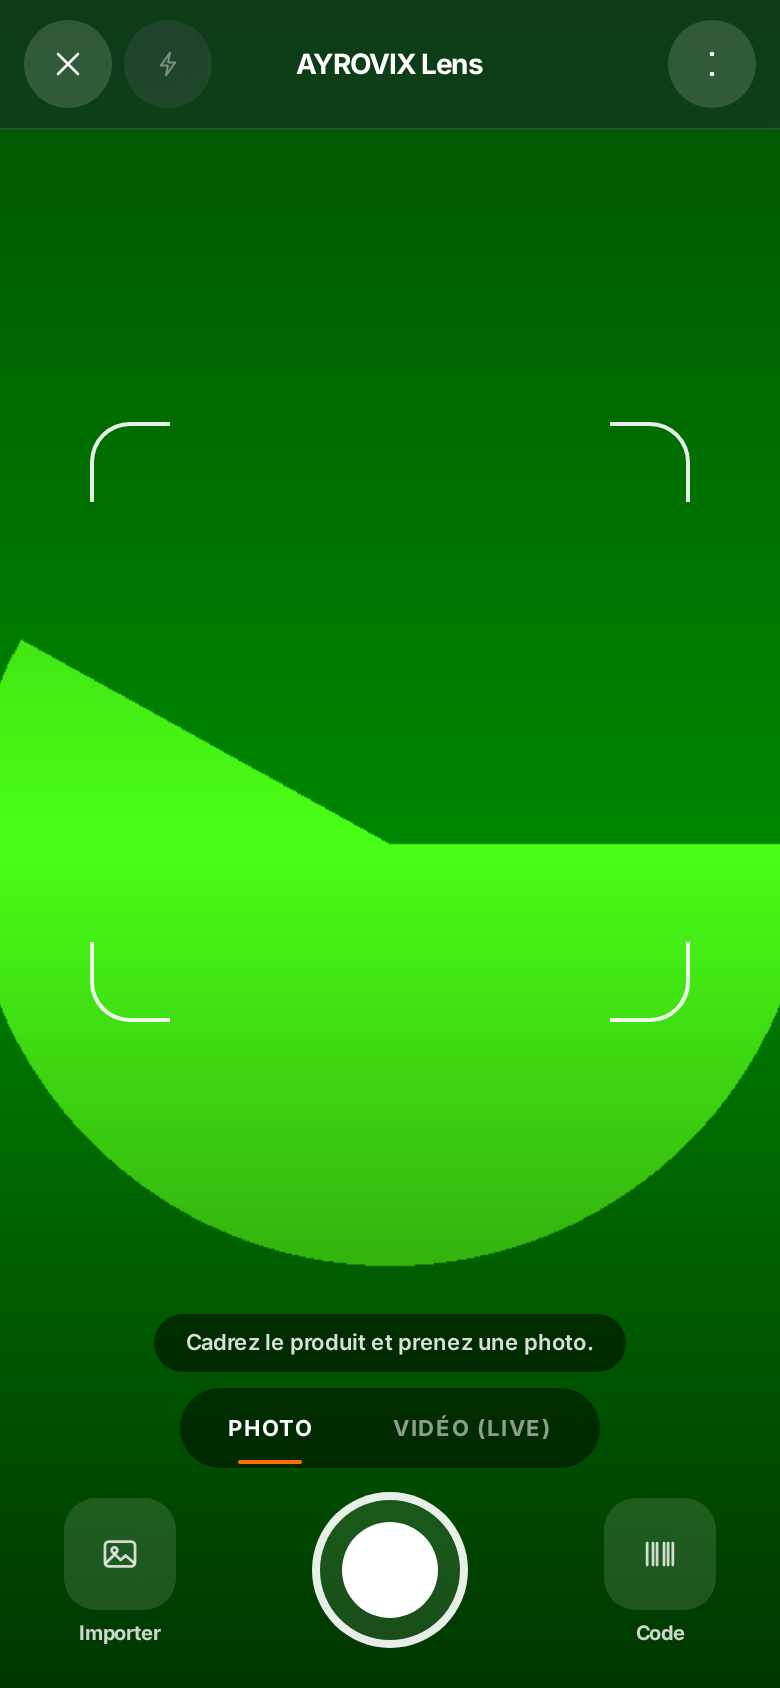
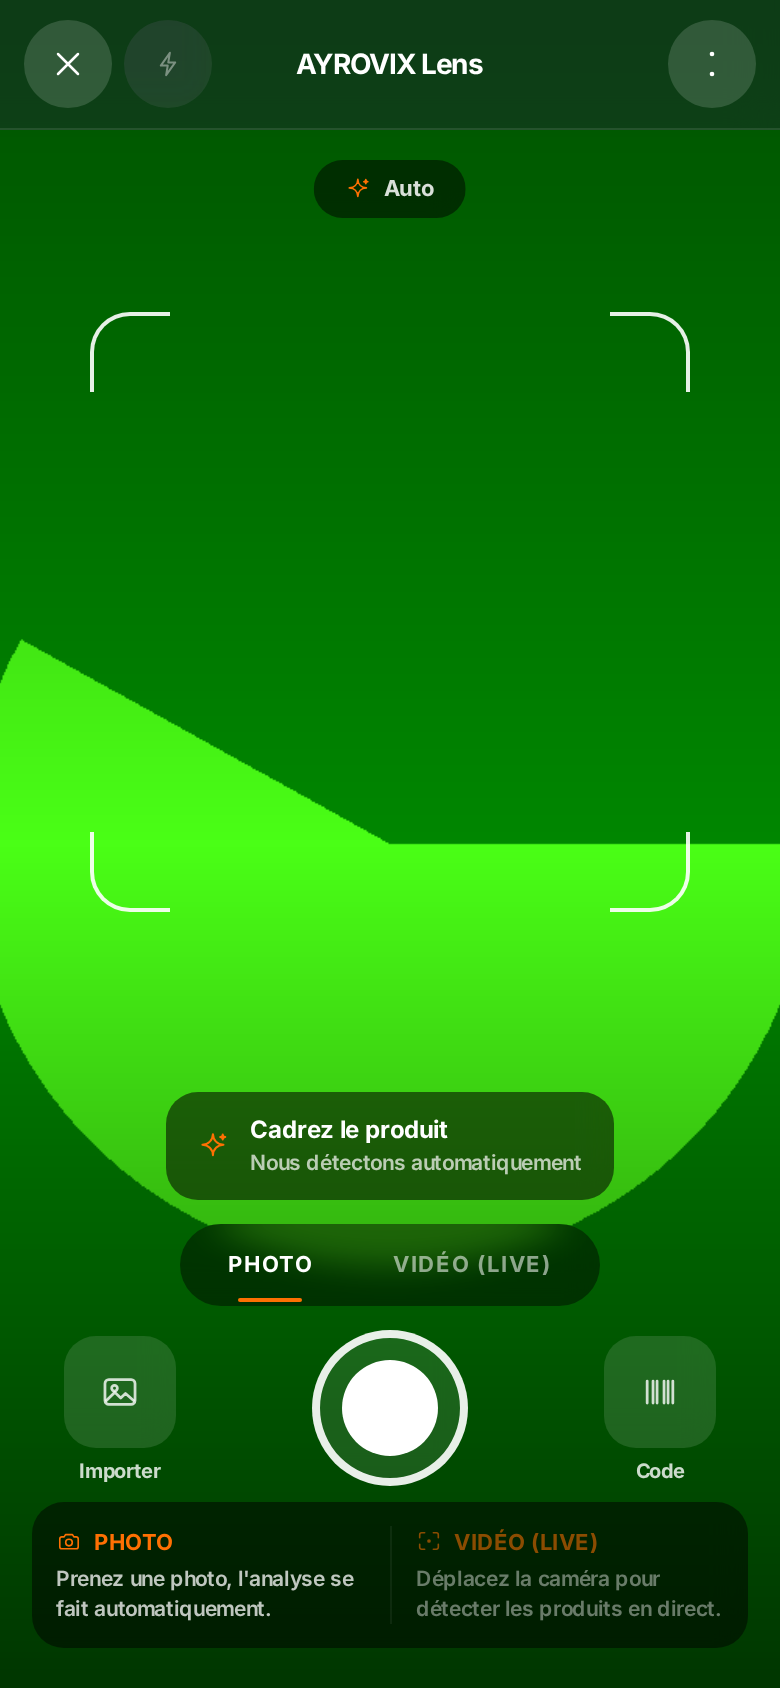
Lens camera UX polish to match visual references (identity preserved)
- Status pill: 'Auto' (PHOTO) / '● Live' (VIDEO).
- Two-line contextual hint card with icon (auto-hides): photo vs video.
- Product card anchored to the stable bounding box (thumb + label + % + DT), tap opens
  the existing results page.
- Capture button shows a scan icon with orange ring in VIDEO mode.
- Bottom two-column explainer card (PHOTO | VIDEO) highlighting the active mode.
- No new pages/bottom-nav; existing flows, matching and Core Engine untouched.

diff --git a/client/src/ayrovix/components/LiveCamera.tsx b/client/src/ayrovix/components/LiveCamera.tsx
@@ -1,6 +1,6 @@
 import React, { useEffect, useRef, useState } from 'react';
 import type { CodeScanResult, CodeScanSession } from '../services/qr';
-import { ArrowRight, Barcode, Camera, Check, Image as ImageIcon, ShoppingBag, Zap } from '../../components/QatafoIcons';
+import { ArrowRight, Barcode, Camera, Check, Image as ImageIcon, ScanSearch, ShoppingBag, Sparkles, Zap } from '../../components/QatafoIcons';
 import { useLocale } from '../../i18n/LocaleContext';
 import { LensContextHeader } from './LensNavigation';
 import { analyzeImage } from '../services/lensApi';
@@ -263,12 +263,14 @@ export const LiveCamera: React.FC<LiveCameraProps> = ({ onPhoto, onQrUrl, onBarc
         </p>
       )}
 
-      {/* état Live / guidance discrète */}
-      {isVideo && (
+      {/* pill الحالة: Auto (PHOTO) / Live (VIDÉO) + guidance discrète */}
+      {mode === 'search' && (
         <div className="pointer-events-none absolute left-1/2 top-20 z-20 -translate-x-1/2">
-          {liveGuidance
+          {liveGuidance && isVideo
             ? <p className="rounded-full bg-black/60 px-4 py-1.5 text-[11px] font-semibold text-white/85">{liveGuidance}</p>
-            : <p className="flex items-center gap-1.5 rounded-full bg-black/45 px-4 py-1.5 text-[10px] font-extrabold uppercase tracking-[0.14em] text-accent"><span className="h-1.5 w-1.5 rounded-full bg-accent" />{liveScanning ? 'Live' : ''}</p>}
+            : isVideo
+              ? <p className="flex items-center gap-1.5 rounded-full bg-black/50 px-4 py-1.5 text-[11px] font-extrabold text-accent backdrop-blur"><span className="h-1.5 w-1.5 rounded-full bg-accent" />{tr('Live', 'مباشر')}</p>
+              : <p className="flex items-center gap-1.5 rounded-full bg-black/50 px-4 py-1.5 text-[11px] font-extrabold text-white/85 backdrop-blur"><Sparkles size={13} className="text-accent" />{tr('Auto', 'تلقائي')}</p>}
         </div>
       )}
 
@@ -284,24 +286,24 @@ export const LiveCamera: React.FC<LiveCameraProps> = ({ onPhoto, onQrUrl, onBarc
               <span className="absolute -top-6 left-0 rounded-md bg-accent px-2 py-0.5 text-[10px] font-extrabold text-ink">{active.label} · {active.confidence}%</span>
             </span>
           )}
+          {/* بطاقة منتج خفيفة مثبّتة أسفل الـ box — tap → page résultats existante */}
+          {isVideo && active && (
+            <button
+              type="button"
+              onClick={() => openLiveResults(selectedObjects.length ? selectedObjects : [active])}
+              className="pointer-events-auto absolute -bottom-10 left-1/2 z-10 flex w-[105%] -translate-x-1/2 items-center gap-2.5 rounded-2xl bg-black/75 p-2 text-start backdrop-blur"
+            >
+              <span className="h-11 w-11 flex-none overflow-hidden rounded-lg bg-surface">{active.image && <img src={active.image} alt="" className="h-full w-full object-cover" />}</span>
+              <span className="min-w-0 flex-1">
+                <span className="block truncate text-[12.5px] font-extrabold text-white">{active.label}</span>
+                <span className="block text-[11px] font-bold text-accent">{active.confidence}%{active.candidates[0]?.priceTnd != null ? ` · ${active.candidates[0].priceTnd.toFixed(2)} DT` : ''}</span>
+              </span>
+              <span className="grid h-8 w-8 flex-none place-items-center rounded-full bg-white/12"><ArrowRight size={15} className="text-white/80" /></span>
+            </button>
+          )}
           {!isVideo && <div className="lens-scan absolute inset-5 rounded-[18px]" aria-hidden="true" />}
         </div>
       </div>
-
-      {/* Carte produit légère (VIDÉO) — tap → page résultats existante */}
-      {isVideo && active && (
-        <div className="relative z-10 flex justify-center pb-2">
-          <button type="button" onClick={() => openLiveResults(selectedObjects.length ? selectedObjects : [active])}
-            className="flex w-[86%] max-w-sm items-center gap-3 rounded-2xl bg-black/70 p-2.5 text-start backdrop-blur">
-            <span className="h-12 w-12 flex-none overflow-hidden rounded-xl bg-surface">{active.image && <img src={active.image} alt="" className="h-full w-full object-cover" />}</span>
-            <span className="min-w-0 flex-1">
-              <span className="block truncate text-[13px] font-extrabold text-white">{active.label}</span>
-              <span className="block text-[11px] font-bold text-accent">{active.confidence}% {active.candidates[0]?.priceTnd != null ? `· ${active.candidates[0].priceTnd.toFixed(2)} DT` : ''}</span>
-            </span>
-            <ArrowRight size={16} className="text-white/70" />
-          </button>
-        </div>
-      )}
 
       {/* Scan Collection (multi) */}
       {isVideo && lockedObjects.length > 1 && (
@@ -328,8 +330,17 @@ export const LiveCamera: React.FC<LiveCameraProps> = ({ onPhoto, onQrUrl, onBarc
         </div>
       )}
 
-      {/* Hint contextuel discret */}
-      {hint && mode !== 'code' && (
+      {/* Hint contextuel (سطرين + أيقونة) يختفي تلقائيًا */}
+      {hint && mode === 'search' && (
+        <div className="pointer-events-none relative z-10 mx-auto mb-3 flex w-fit items-center gap-2.5 rounded-2xl bg-black/55 px-4 py-2.5 backdrop-blur">
+          {isVideo ? <ScanSearch size={16} className="text-accent" /> : <Sparkles size={16} className="text-accent" />}
+          <span>
+            <span className="block text-[12px] font-extrabold text-white">{isVideo ? tr('Déplacez la caméra', 'حرّك الكاميرا') : tr('Cadrez le produit', 'ضع المنتج في الإطار')}</span>
+            <span className="block text-[10.5px] font-semibold text-white/70">{isVideo ? tr('pour détecter les produits', 'لاكتشاف المنتجات') : tr('Nous détectons automatiquement', 'نكتشف تلقائيًا')}</span>
+          </span>
+        </div>
+      )}
+      {hint && mode === 'code' && (
         <p className="relative z-10 mx-auto mb-2 w-fit rounded-full bg-black/50 px-4 py-1.5 text-[11px] font-semibold text-white/85 backdrop-blur">{hint}</p>
       )}
 
@@ -356,8 +367,10 @@ export const LiveCamera: React.FC<LiveCameraProps> = ({ onPhoto, onQrUrl, onBarc
 
         {mode !== 'code' ? (
           <button type="button" onClick={capturePhoto} aria-label={tr('Photographier', 'التقاط صورة')}
-            className={`grid h-[78px] w-[78px] place-items-center rounded-full border-4 border-white/90 backdrop-blur transition active:scale-95 ${capturing ? 'scale-90 bg-accent' : isVideo ? 'bg-accent/20' : 'bg-white/10'}`}>
-            <span className={`h-12 w-12 rounded-full transition-transform ${capturing ? 'scale-75 bg-white' : isVideo ? 'bg-accent' : 'bg-white'}`} />
+            className={`grid h-[78px] w-[78px] place-items-center rounded-full border-4 border-white/90 backdrop-blur transition active:scale-95 ${capturing ? 'scale-90 bg-accent' : isVideo ? 'bg-black/30' : 'bg-white/10'}`}>
+            <span className={`grid h-12 w-12 place-items-center rounded-full transition-transform ${capturing ? 'scale-75 bg-white' : isVideo ? 'bg-black/40 text-accent ring-2 ring-accent' : 'bg-white'}`}>
+              {isVideo && !capturing && <ScanSearch size={22} strokeWidth={1.9} />}
+            </span>
           </button>
         ) : (
           <span className="h-[78px] w-[78px]" />
@@ -379,6 +392,20 @@ export const LiveCamera: React.FC<LiveCameraProps> = ({ onPhoto, onQrUrl, onBarc
       )}
       {mode === 'code' && notice && (
         <p className="relative z-10 mx-auto mb-2 max-w-xs rounded-2xl bg-danger/25 px-4 py-2 text-center text-xs font-semibold text-white">{notice}</p>
+      )}
+
+      {/* بطاقة شرح الوضعين (PHOTO | VIDÉO) — تُبرز الوضع النشط */}
+      {mode !== 'code' && (
+        <div className="relative z-10 mx-4 mb-2 grid grid-cols-2 rounded-2xl bg-black/50 p-3 backdrop-blur">
+          <div className={`pe-3 ${isVideo ? 'opacity-55' : ''}`}>
+            <p className="flex items-center gap-1.5 text-[11px] font-extrabold uppercase tracking-wide text-accent"><Camera size={13} />{tr('Photo', 'صورة')}</p>
+            <p className="mt-1 text-[10.5px] font-semibold leading-snug text-white/75">{tr("Prenez une photo, l'analyse se fait automatiquement.", 'التقط صورة، ويتم التحليل تلقائيًا.')}</p>
+          </div>
+          <div className={`border-s border-white/10 ps-3 ${isVideo ? '' : 'opacity-55'}`}>
+            <p className="flex items-center gap-1.5 text-[11px] font-extrabold uppercase tracking-wide text-accent"><ScanSearch size={13} />{tr('Vidéo (Live)', 'فيديو (مباشر)')}</p>
+            <p className="mt-1 text-[10.5px] font-semibold leading-snug text-white/75">{tr('Déplacez la caméra pour détecter les produits en direct.', 'حرّك الكاميرا لاكتشاف المنتجات مباشرة.')}</p>
+          </div>
+        </div>
       )}
 
       <div className="relative z-10 h-[max(0.75rem,env(safe-area-inset-bottom))]" />
